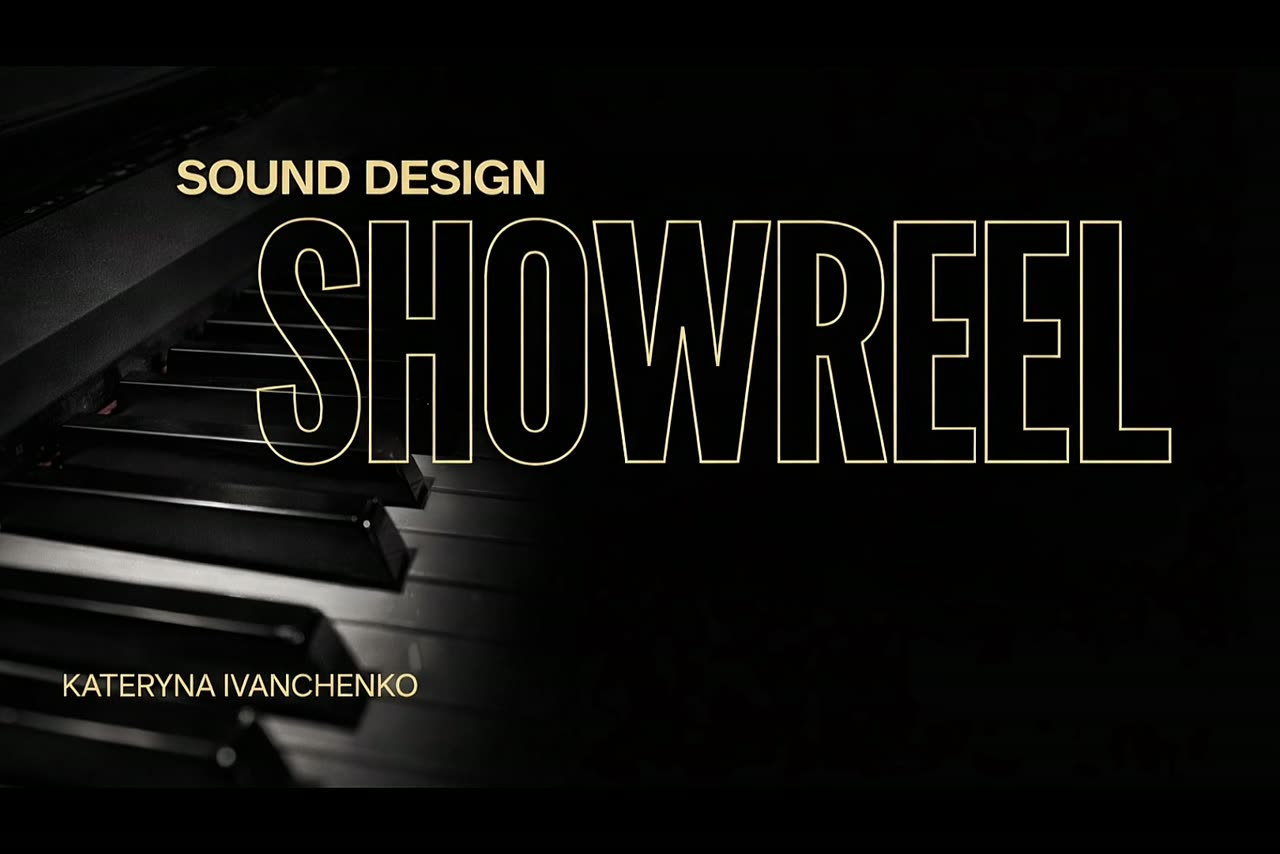
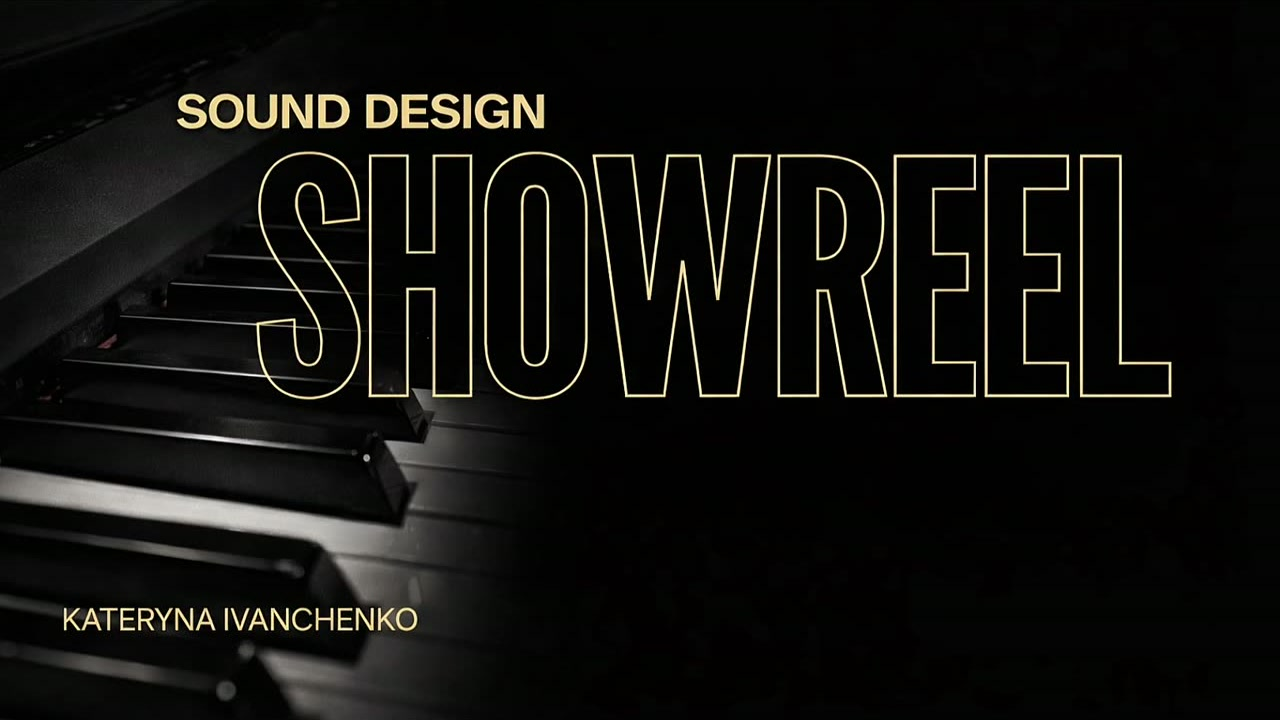
Showreel poster: crop baked-in letterbox to 16:9
The 1280x854 title card carried black bars top and bottom; the hero
player is 16:9 with object-fit: contain, so it was pillarboxed too.

diff --git a/index.html b/index.html
@@ -98,7 +98,7 @@
              data-provider="file"
              data-src="showreel.mp4"
              data-title="Kateryna Ivanchenko - sound design showreel">
-          <img src="posters/showreel_poster.jpg" alt="" width="1280" height="854" fetchpriority="high">
+          <img src="posters/showreel_poster.jpg" alt="" width="1280" height="720" fetchpriority="high">
           <button class="video-embed__btn" type="button">Play</button>
         </div>
 
